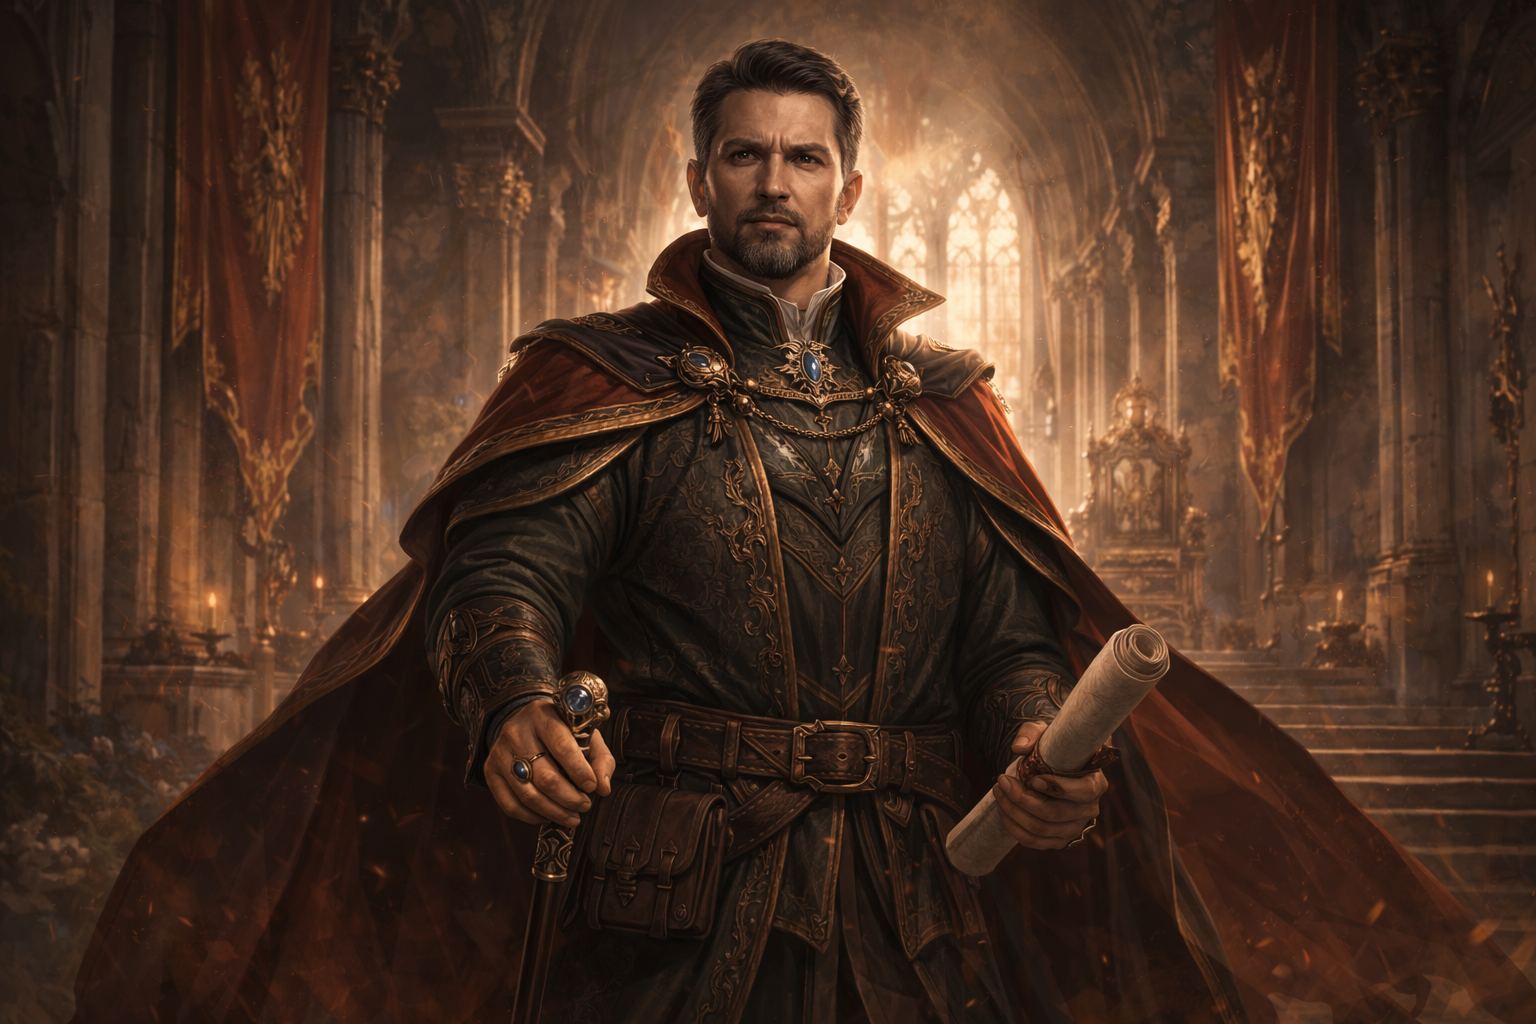
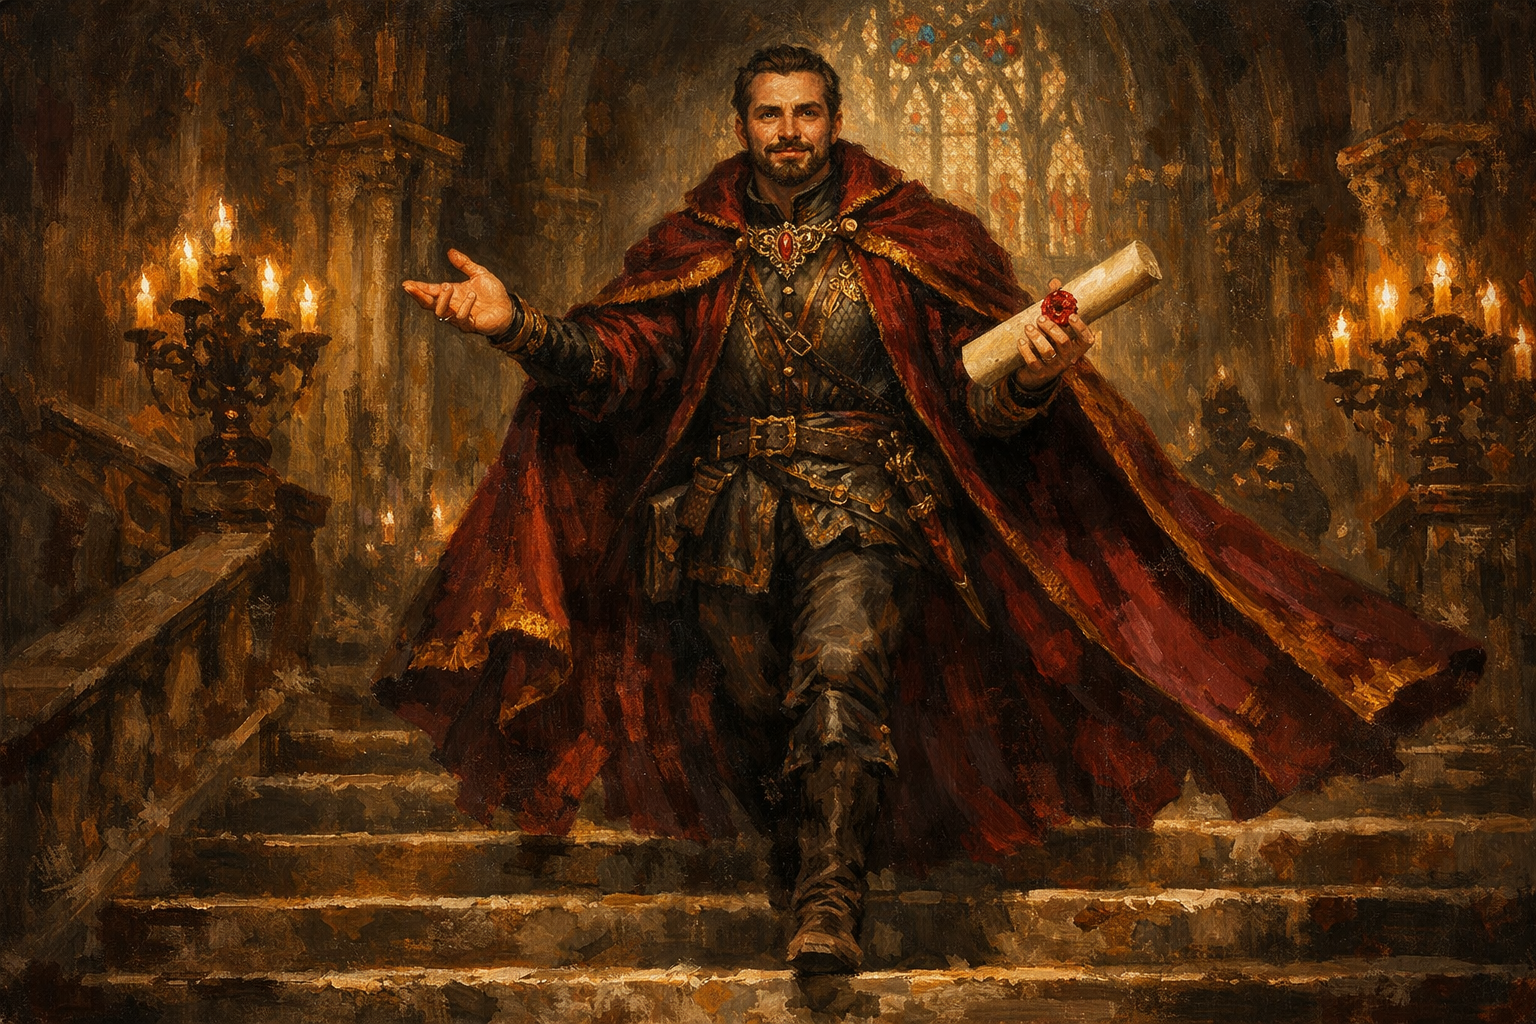
Regenerate Diplomate, Rodeur, Soigneur hero art in painterly style
- Diplomate: full-body walking down cathedral steps, burgundy/gold
- Rodeuse: crouched on tree trunk drawing bow, forest green
- Soigneur: kneeling in ruined chapel channeling golden light
All with varied poses and wider framing for card readability.

diff --git a/ART_REFAIRE.md b/ART_REFAIRE.md
@@ -8,9 +8,9 @@ Style cible : MTG painterly (voir memory/reference_art_prompt.md)
 |---|---|---|
 | Raw/Heros/Guerrier.png | Guerrier humain, armure lourde, epee + bouclier, palette bleu/acier | Fait |
 | Raw/Heros/Mage.png | Mage femme, baton arcanique, palette bleu electrique | Fait |
-| Raw/Heros/Diplomate.png | Diplomate homme, cape noble, parchemin, palette bordeaux/or | A refaire |
-| Raw/Heros/Rodeur.png | Rodeuse femme, arc, cape sombre, palette vert foret | A refaire |
-| Raw/Heros/Soigneur.png | Soigneur homme, robes blanches, magie doree, palette blanc/or | A refaire |
+| Raw/Heros/Diplomate.png | Diplomate homme, cape noble, parchemin, palette bordeaux/or | Fait |
+| Raw/Heros/Rodeur.png | Rodeuse femme, arc, cape sombre, palette vert foret | Fait |
+| Raw/Heros/Soigneur.png | Soigneur homme, robes blanches, magie doree, palette blanc/or | Fait |
 
 ## Monstres (5)
 
